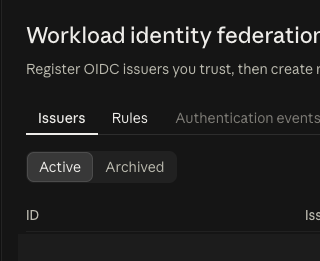
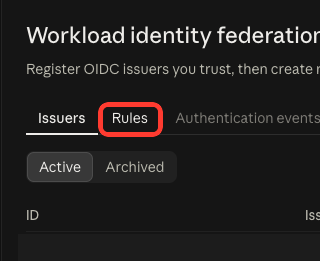
Node Connectors, opened from am by ROOT
"ROOT's connectors; are called the Node Connectors, namespace connectors are called Namespace Connetors bt displayed as Connectors to the user."
"you may open Node Connectors from am if you are root"

session: 40513f9d-b4fa-4eae-b842-4bcfc96778de (claude-opus-5-5, medium)

Changed region(s): [[0.2812, 0.3678, 0.5312, 0.5517]]

diff --git a/ts/node-connectors-element.ts b/ts/node-connectors-element.ts
@@ -1,0 +1,188 @@
+// Node Connectors: the node's own connections, ROOT's (stories/27-root-registers-the-node-with-anthropic.feature).
+// "ROOT's connectors; are called the Node Connectors, namespace connectors are called Namespace Connetors bt displayed as Connectors to the user."
+// "you may open Node Connectors from am if you are root"
+
+import type { Element } from '@teranos/elements';
+import { tray } from '@teranos/elements';
+import { apiJson } from './client/http';
+import { log, SEG } from './logger';
+import { ANTHROPIC, markOf } from './brand-marks';
+import { copied, goTo, note, pressable, valueRow } from './connector-element';
+import { CONNECTOR } from './sym';
+
+export const ELEMENT_ID = 'node-connectors-element';
+
+const CONSOLE_FEDERATION = 'https://platform.claude.com/settings/workload-identity-federation';
+const CONSOLE_SERVICE_ACCOUNTS = 'https://platform.claude.com/settings/service-accounts';
+const CONSOLE_ORGANIZATION = 'https://platform.claude.com/settings/organization';
+
+/** What the node says of itself that ROOT gives Anthropic. */
+export interface NodeIdentity {
+    name: string;
+    issuer: string;
+    did: string;
+    namespaces: string[];
+}
+
+/** A light that is not on: nothing is set up for it yet. */
+function lightOff(of: string): HTMLElement {
+    const light = document.createElement('span');
+    light.dataset.light = of;
+    light.dataset.on = 'false';
+    light.style.cssText = 'display:inline-block;width:10px;height:10px;border-radius:50%;flex:0 0 auto;border:1px solid var(--border-on-dark)';
+    return light;
+}
+
+/** A Console screenshot, with what to press marked. */
+function shot(file: string, says: string): HTMLElement {
+    const image = document.createElement('img');
+    image.src = `/img/connectors/${file}`;
+    image.alt = says;
+    image.dataset.shot = file;
+    image.style.cssText = 'max-width:100%;border:1px solid var(--border-on-dark);border-radius:var(--border-radius)';
+    return image;
+}
+
+/** What to give each field of a Console form. */
+function fields(rows: [string, string | HTMLElement][]): HTMLElement {
+    const held = document.createElement('div');
+    for (const [name, give] of rows) {
+        held.appendChild(valueRow(name, typeof give === 'string' ? Object.assign(document.createElement('span'), { textContent: give }) : give));
+    }
+    return held;
+}
+
+/** Each step of registering the node at Anthropic, as story 27 walks it. */
+function anthropicSteps(panel: HTMLElement, node: NodeIdentity): void {
+    panel.append(
+        valueRow("The node's issuer", copied(node.issuer)),
+        goTo('Go to', CONSOLE_FEDERATION),
+        shot('anthropic-workload-identity.png', 'Register issuer, marked'),
+        note('Press Register issuer, and give:'),
+        shot('anthropic-register-issuer.png', 'The Register issuer form'),
+        fields([
+            ['Name', copied(node.name)],
+            ['Issuer URL (iss claim)', copied(node.issuer)],
+            ['JWKS source', 'OIDC discovery'],
+            ['Discovery base URL', 'blank'],
+            ['CA certificate', 'blank'],
+            ['Enforce single-use tokens', 'on'],
+            ['Maximum token lifetime', '1'],
+        ]),
+        note('Press Register.'),
+        goTo('Go to', CONSOLE_SERVICE_ACCOUNTS),
+        note('Create a service account with the developer role, in the workspace that pays.'),
+        shot('anthropic-service-accounts.png', 'Create service account, marked'),
+        shot('anthropic-create-service-account.png', 'The Create service account form'),
+        fields([
+            ['Name', copied(node.name)],
+            ['Description', 'blank'],
+            ['Organization role', 'Developer'],
+            ['Workspaces', 'Default'],
+        ]),
+        note('Press Create service account.'),
+        goTo('Go to', CONSOLE_FEDERATION),
+        note('Rules, next to Issuers.'),
+        shot('anthropic-rules-next-to-issuers.png', 'Rules, marked'),
+        shot('anthropic-rules.png', 'New rule, marked'),
+        note('Press New rule, and give:'),
+        shot('anthropic-create-rule.png', 'The Create federation rule form'),
+        shot('anthropic-create-rule-target.png', 'Its target and authorization'),
+        fields([
+            ['Rule name', copied(node.name)],
+            ['Description', 'blank'],
+            ['Issuer', "the node's issuer"],
+            ['Match configuration', 'Pattern match'],
+            ['Subject pattern', copied(node.did)],
+            ['Additional claim conditions', 'none'],
+            ['Expected audience', 'blank'],
+            ['Service account', "the node's service account"],
+            ['Enable in all workspaces', 'off'],
+            ['Workspaces', 'Default'],
+            ['OAuth scope', 'workspace:developer'],
+            ['Token lifetime', '10 minutes (default)'],
+        ]),
+        note('Press Create rule.'),
+        goTo('The organization id is at', CONSOLE_ORGANIZATION),
+        shot('anthropic-organization.png', 'Where the organization id is'),
+    );
+}
+
+/** The Anthropic row: its light, each namespace's OIDC, and the steps it opens into. */
+function anthropicRow(node: NodeIdentity): HTMLElement {
+    const row = document.createElement('div');
+    row.dataset.platform = 'Anthropic';
+    row.style.cssText = 'display:flex;flex-direction:column;border:1px solid var(--border-on-dark);border-radius:var(--border-radius);background:var(--bg-dark-light);color:var(--text-on-dark)';
+    const head = document.createElement('div');
+    head.dataset.connect = 'Anthropic';
+    head.style.cssText = 'display:flex;align-items:center;gap:8px;padding:6px 8px';
+    const name = document.createElement('span');
+    name.textContent = 'Anthropic';
+    name.style.flex = '1';
+    head.append(markOf(ANTHROPIC), name, lightOff('anthropic-oidc'));
+    // Whether each namespace's OIDC is set up: none is yet, so no light is on.
+    const namespaces = document.createElement('div');
+    namespaces.dataset.namespacesOidc = '';
+    namespaces.style.cssText = 'display:flex;flex-direction:column;gap:4px;padding:0 8px 6px';
+    for (const each of node.namespaces) {
+        const line = document.createElement('div');
+        line.dataset.namespace = each;
+        line.style.cssText = 'display:flex;align-items:center;gap:8px';
+        line.append(lightOff(`oidc-${each}`), Object.assign(document.createElement('span'), { textContent: each }));
+        namespaces.appendChild(line);
+    }
+    const body = document.createElement('div');
+    body.style.cssText = 'display:flex;flex-direction:column;gap:8px;padding:0 8px 8px';
+    body.hidden = true;
+    row.append(pressable(head, () => {
+        body.hidden = !body.hidden;
+        if (body.hidden || body.childElementCount > 0) return;
+        anthropicSteps(body, node);
+    }), namespaces, body);
+    return row;
+}
+
+/** Exported for tests: the node's connectors, drawn from what the node says of itself. */
+export function renderNodeConnectors(container: HTMLElement, node: NodeIdentity): void {
+    container.style.cssText = 'display:flex;flex-direction:column;gap:8px';
+    container.appendChild(anthropicRow(node));
+}
+
+/** What the node says of itself: its name, its issuer, its DID and its namespaces. */
+async function nodeIdentity(): Promise<NodeIdentity> {
+    const [card, discovery, did, listed] = await Promise.all([
+        apiJson<{ card: { name?: string } }>('/am/node'),
+        apiJson<{ issuer: string }>('/.well-known/openid-configuration'),
+        apiJson<{ id: string }>('/.well-known/did.json'),
+        apiJson<{ namespaces: { name: string }[] }>('/api/namespaces'),
+    ]);
+    const name = card.card?.name;
+    if (!name) throw new Error('the node card names no node');
+    return { name, issuer: discovery.issuer, did: did.id, namespaces: (listed.namespaces ?? []).map((n) => n.name) };
+}
+
+export function createNodeConnectorsElement(): Element {
+    return {
+        id: ELEMENT_ID,
+        title: 'Node Connectors',
+        symbol: CONNECTOR,
+        renderContent: () => {
+            const content = document.createElement('div');
+            nodeIdentity().then((node) => renderNodeConnectors(content, node)).catch((err: unknown) => {
+                const said = err instanceof Error ? err.message : String(err);
+                log.warn(SEG.SELF, `[node connectors] ${said}`);
+                const why = document.createElement('div');
+                why.className = 'status-unwell';
+                why.textContent = said;
+                content.appendChild(why);
+            });
+            return content;
+        },
+    };
+}
+
+/** Opens Node Connectors: one of the tray's, added the first time. */
+export function openNodeConnectors(): void {
+    if (!tray.has(ELEMENT_ID)) tray.add(createNodeConnectorsElement());
+    tray.open(ELEMENT_ID);
+}

diff --git a/ts/node-connectors-element.test.ts b/ts/node-connectors-element.test.ts
@@ -1,0 +1,77 @@
+/**
+ * Node Connectors, as stories/27-root-registers-the-node-with-anthropic.feature walks it.
+ *
+ * Personas:
+ * - Tim: Happy path — the Anthropic row, its light, and the steps it opens into
+ */
+
+import { describe, test, expect } from 'bun:test';
+import { renderNodeConnectors, type NodeIdentity } from './node-connectors-element';
+
+const NODE: NodeIdentity = {
+    name: 'q',
+    issuer: 'https://api.q.sbvh.nl',
+    did: 'did:key:z6Mkh24w5VtGRLhZ3HWCKMyDQuY4VtvmmxWp8HC2toKgNLed',
+    namespaces: ['pond', 'Clean'],
+};
+
+function drawn(): HTMLElement {
+    const held = document.createElement('div');
+    renderNodeConnectors(held, NODE);
+    return held;
+}
+
+function opened(): HTMLElement {
+    const held = drawn();
+    (held.querySelector('[data-connect="Anthropic"]') as HTMLElement).click();
+    return held;
+}
+
+const copyables = (held: HTMLElement) => Array.from(held.querySelectorAll('[data-copyable]')).map((c) => c.textContent);
+
+describe('Tim: ROOT registers the node at Anthropic (stories/27)', () => {
+    test("the Anthropic row's light is not on", () => {
+        const light = drawn().querySelector('[data-light="anthropic-oidc"]') as HTMLElement;
+        expect(light.dataset.on).toBe('false');
+    });
+
+    test("it shows whether each namespace's OIDC is set up", () => {
+        const held = drawn();
+        for (const each of NODE.namespaces) {
+            expect((held.querySelector(`[data-light="oidc-${each}"]`) as HTMLElement).dataset.on, each).toBe('false');
+        }
+    });
+
+    test("pressing the Anthropic row shows the node's issuer, copyable, and the link to the Console", () => {
+        const held = opened();
+        expect(copyables(held)).toContain(NODE.issuer);
+        expect(held.querySelector('a[href="https://platform.claude.com/settings/workload-identity-federation"]')).not.toBeNull();
+    });
+
+    test('it shows the Console at each step, with what to press marked', () => {
+        const shots = Array.from(opened().querySelectorAll<HTMLImageElement>('img[data-shot]')).map((i) => i.dataset.shot);
+        expect(shots).toEqual([
+            'anthropic-workload-identity.png',
+            'anthropic-register-issuer.png',
+            'anthropic-service-accounts.png',
+            'anthropic-create-service-account.png',
+            'anthropic-rules-next-to-issuers.png',
+            'anthropic-rules.png',
+            'anthropic-create-rule.png',
+            'anthropic-create-rule-target.png',
+            'anthropic-organization.png',
+        ]);
+    });
+
+    test("the node's name and DID are given copyable, for the forms that ask for them", () => {
+        const given = copyables(opened());
+        expect(given.filter((c) => c === NODE.name)).toHaveLength(3);
+        expect(given).toContain(NODE.did);
+    });
+
+    test('it links the service accounts and the organization pages', () => {
+        const held = opened();
+        expect(held.querySelector('a[href="https://platform.claude.com/settings/service-accounts"]')).not.toBeNull();
+        expect(held.querySelector('a[href="https://platform.claude.com/settings/organization"]')).not.toBeNull();
+    });
+});

diff --git a/ts/connector-element.ts b/ts/connector-element.ts
@@ -48,7 +48,7 @@ function mcpOf(at: ConnectorsAt): string {
     return `${at.node}/${encodeURIComponent(at.standing)}`;
 }
 
-function note(text: string): HTMLElement {
+export function note(text: string): HTMLElement {
     const said = document.createElement('div');
     said.className = 'element-note';
     said.textContent = text;
@@ -56,7 +56,7 @@ function note(text: string): HTMLElement {
 }
 
 /** A line saying where to go, its address a link out. */
-function goTo(words: string, href: string): HTMLElement {
+export function goTo(words: string, href: string): HTMLElement {
     const line = note(words);
     const out = document.createElement('a');
     out.href = href;
@@ -69,7 +69,7 @@ function goTo(words: string, href: string): HTMLElement {
 }
 
 /** One named value, copied by a click. */
-function valueRow(name: string, value: HTMLElement): HTMLElement {
+export function valueRow(name: string, value: HTMLElement): HTMLElement {
     const row = document.createElement('div');
     row.className = 'element-row';
     const label = document.createElement('span');
@@ -81,7 +81,7 @@ function valueRow(name: string, value: HTMLElement): HTMLElement {
     return row;
 }
 
-function copied(text: string): HTMLElement {
+export function copied(text: string): HTMLElement {
     const shown = document.createElement('span');
     shown.textContent = text;
     return copyable(shown);
@@ -241,7 +241,6 @@ const PLATFORMS: Platform[] = [
         brand: ANTHROPIC, name: 'Anthropic', parts: [
             { name: 'add QNTX MCP to Claude', draw: claudeStory },
             { name: 'Claude Code', opens: 'agent-element' },
-            { name: 'Anthropic API key', draw: keyStory('anthropic', 'Anthropic', 'sk-ant-…', 'https://platform.claude.com/settings/keys') },
         ],
     },
     {
@@ -254,7 +253,7 @@ const PLATFORMS: Platform[] = [
 ];
 
 /** Something pressed that is not a button: a row is as wide as its element, which a button inside one is not. */
-function pressable(element: HTMLElement, does: () => void): HTMLElement {
+export function pressable(element: HTMLElement, does: () => void): HTMLElement {
     element.setAttribute('role', 'button');
     element.tabIndex = 0;
     element.style.cursor = 'pointer';

diff --git a/ts/am-element.ts b/ts/am-element.ts
@@ -19,7 +19,8 @@ import { log, SEG } from './logger.ts';
 import { formatBuildTime } from './components/tooltip.ts';
 import type { StatusItem } from './brow.ts';
 import { a2aCardRow } from './a2a-card-element.ts';
-import { nodeMCPOf, rootsClient, type CardMCP } from './connector-element.ts';
+import { nodeMCPOf, pressable, rootsClient, type CardMCP } from './connector-element.ts';
+import { openNodeConnectors } from './node-connectors-element.ts';
 import { person } from './self-person.ts';
 import type { VersionMessage, SystemCapabilitiesMessage } from '../types/websocket';
 
@@ -33,6 +34,8 @@ let amStatusRow: StatusItem[] = [];
 // ROOT's client for the node's MCP server, held so a redraw keeps what was typed.
 // Null for anybody but ROOT.
 let amRootsClient: HTMLElement | null = null;
+// Where ROOT opens Node Connectors. Null for anybody but ROOT.
+let amNodeConnectors: HTMLElement | null = null;
 
 /** The build, pushed on the connect frame. */
 export function updateAmVersion(data: VersionMessage): void {
@@ -181,6 +184,7 @@ function renderAm(): void {
     amElement.firstElementChild?.appendChild(a2aCardRow());
     // "for root it can be in i of the root or on am"
     if (amRootsClient) amElement.firstElementChild?.appendChild(amRootsClient);
+    if (amNodeConnectors) amElement.firstElementChild?.appendChild(amNodeConnectors);
 }
 
 // Whether the viewer is ROOT, which ROOT's client is drawn for, and where the
@@ -189,6 +193,12 @@ async function loadRootsClient(): Promise<void> {
     try {
         const who = await person();
         if (who.level !== 'ROOT') return;
+        // "you may open Node Connectors from am if you are root"
+        const opens = document.createElement('div');
+        opens.dataset.opens = 'node-connectors-element';
+        opens.className = 'element-row';
+        opens.textContent = 'Node Connectors';
+        amNodeConnectors = pressable(opens, openNodeConnectors);
         const said = await apiJson<{ card: CardMCP }>('/am/node');
         const node = nodeMCPOf(said.card ?? {});
         if (!node) {

diff --git a/build.ts b/build.ts
@@ -174,6 +174,8 @@ try {
   // Copy static assets
   console.log(`${darkPeach}Copying static assets...${reset}`);
   await cp(join(sourceDir, "qntx.jpg"), join(outputDir, "qntx.jpg"));
+  // The screenshots a story shows, where the page asks for them.
+  await cp(join(sourceDir, "img"), join(outputDir, "img"), { recursive: true });
 
   // Copy WASM files for browser IndexedDB storage
   // WASM binaries must be in /js/ alongside bundled JS (import.meta.url resolution)
